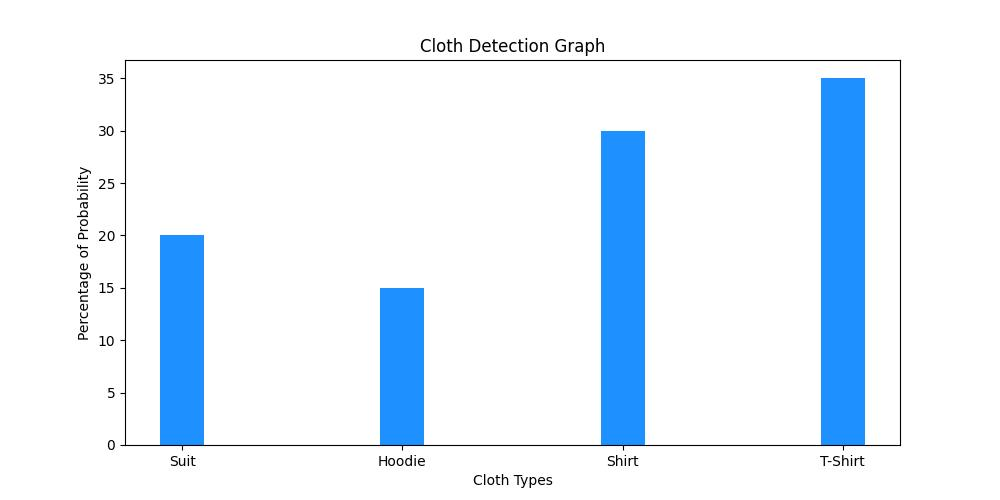
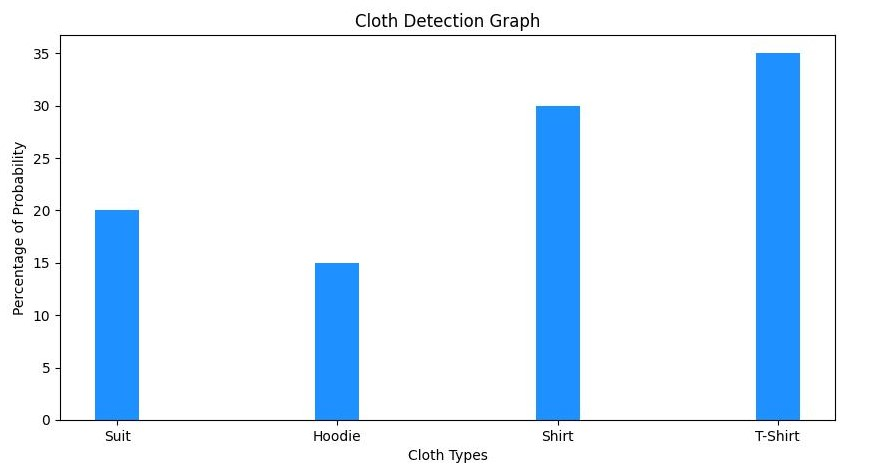
Success page

diff --git a/templates/success.html b/templates/success.html
@@ -48,13 +48,13 @@
 		{% endif %}
 		{% endwith %}
 		{% if fname %}
-		<img class="img-responsive" src="{{url_for('static', filename=fname)}}" style="max-width:75%; max-height: 75%;position:center">
+		<img class="img-responsive" src="{{url_for('static', filename=fname)}}" style="max-width:75%; max-height: 75%;position:center;padding-top:25px;padding-left:19px">
 		{% endif %}
   </div>
-  <div class="col" style="padding-right:40px;">
-		<div class="alert alert-info"  style="max-width:105%; max-height: 105%;text-align:center;">
+  <div class="col" style="padding-right:5%;">
+		   <div class="alert alert-info"  style="max-width:105%; max-height: 105%;text-align:center;">
 					<h5>Prediction Graph</h5>
-		</div>
+		   </div>
 				<img class="img-responsive" src="{{ url_for('static', filename='images/output.jpg')}}" style="max-width:105%; max-height: 105%;position:center;">
   </div>
 </div>
